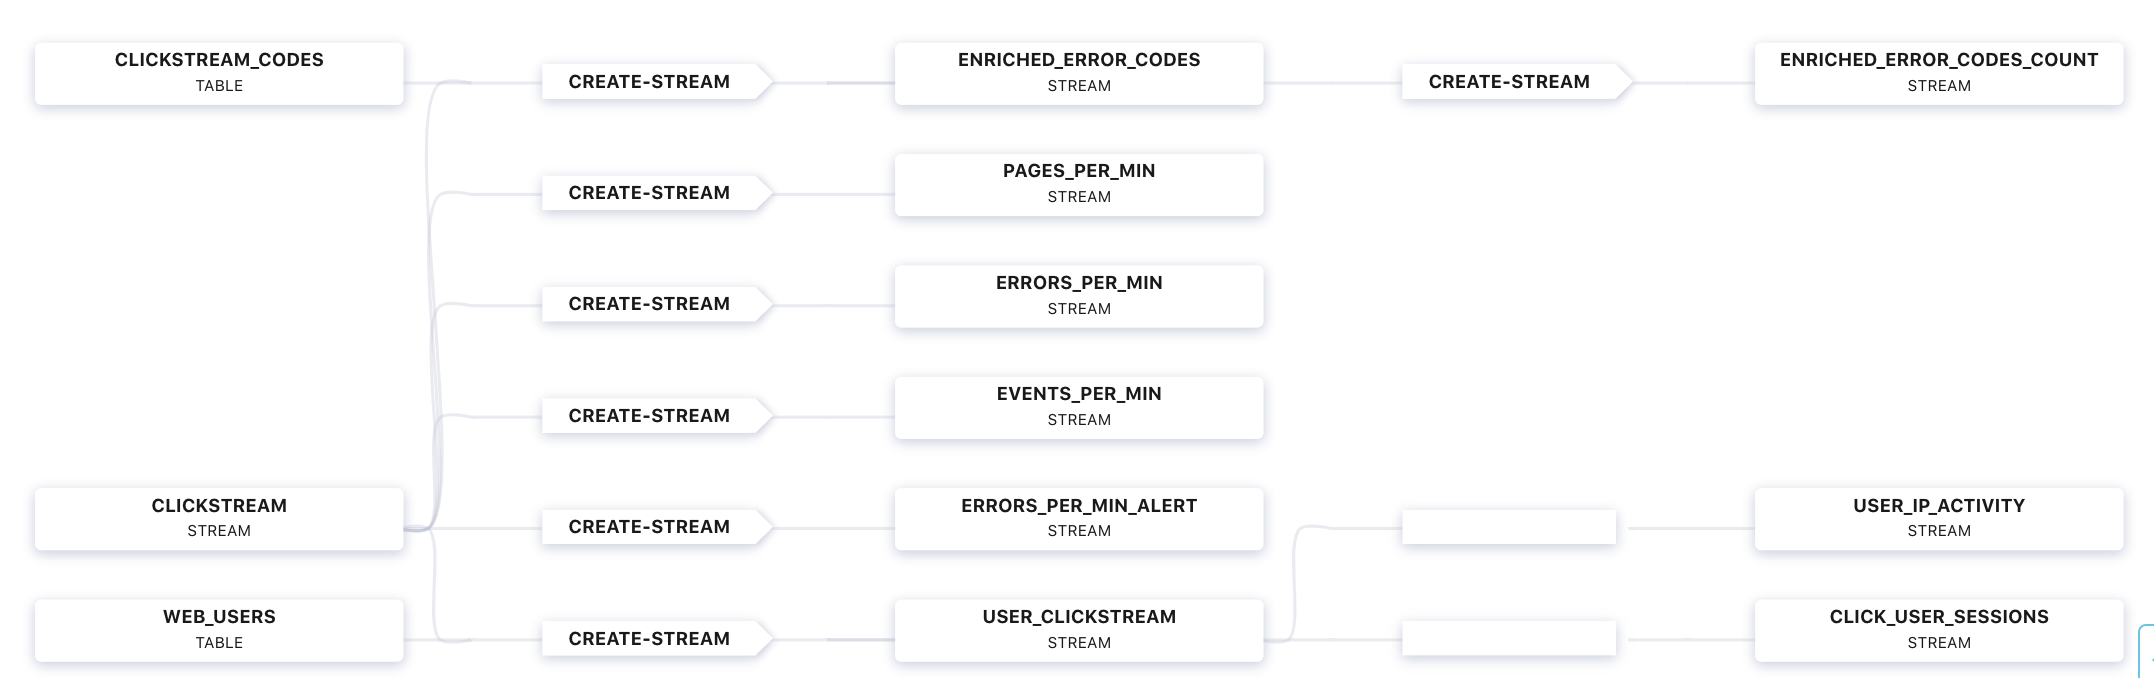
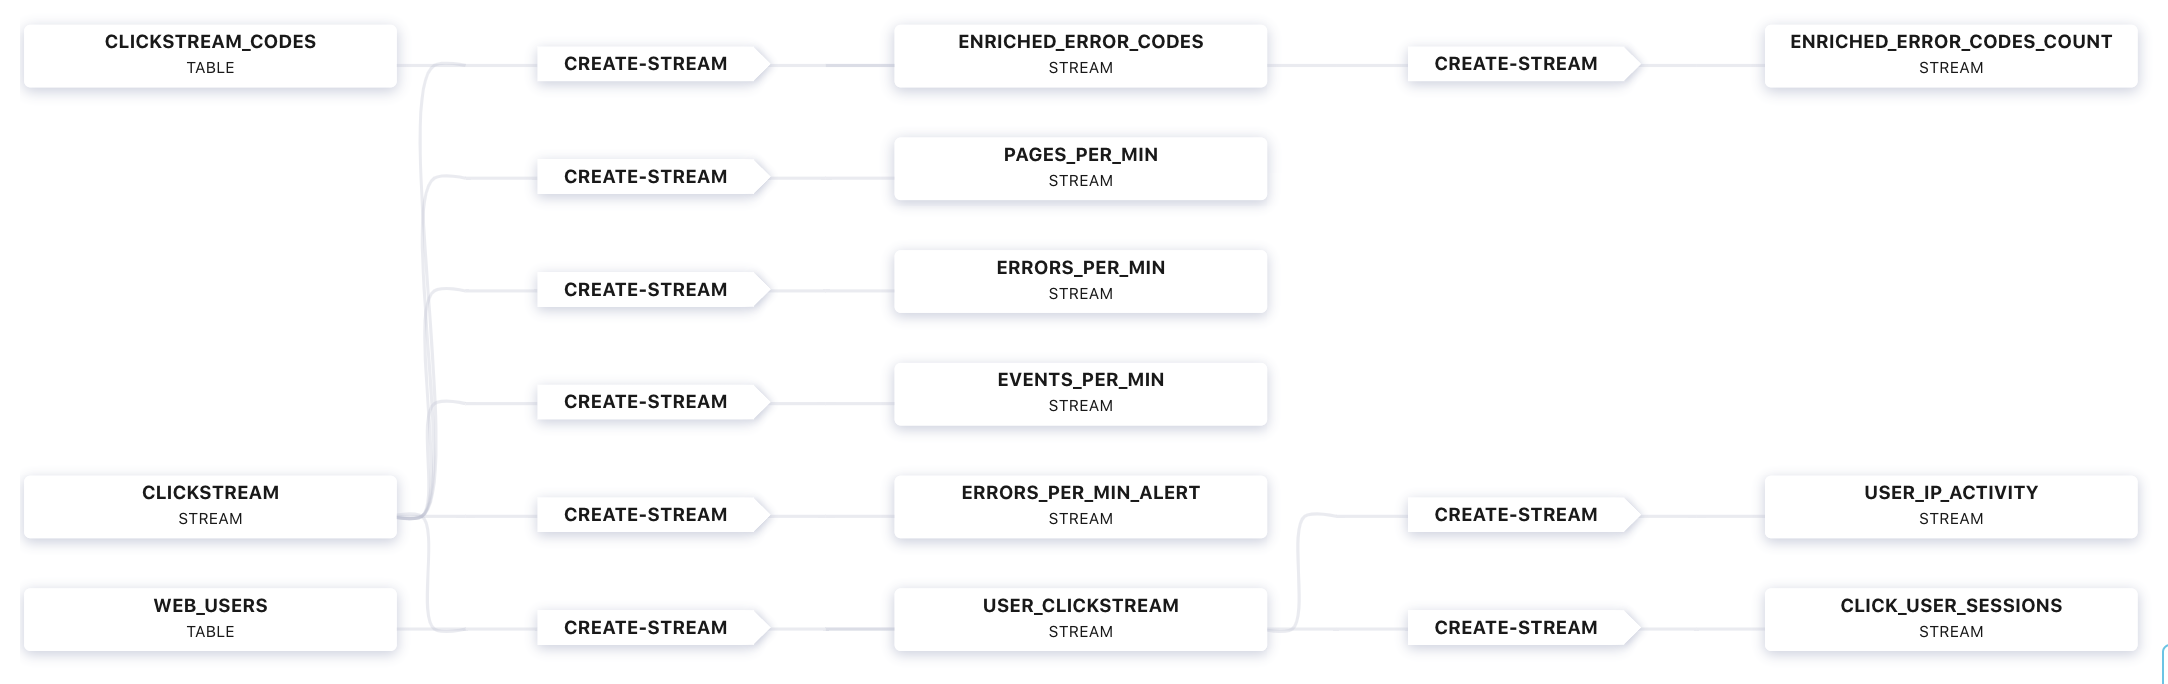
DEVX-1633: convert KSQL to ksqlDB for Clickstream (#485)

diff --git a/clickstream/docs/index.rst b/clickstream/docs/index.rst
@@ -53,19 +53,17 @@ are quite large and depending on your network connection may take
 
    ::
 
-           Name                    Command                  State                    Ports              
-      --------------------------------------------------------------------------------------------------
-      kafka-connect     /etc/confluent/docker/run        Up             0.0.0.0:8083->8083/tcp, 9092/tcp
-      control-center    /etc/confluent/docker/run        Up             0.0.0.0:9021->9021/tcp          
-      datagen           bash -c echo Waiting for K ...   Up                                             
-      elasticsearch     /usr/local/bin/docker-entr ...   Up             0.0.0.0:9200->9200/tcp, 9300/tcp
-      grafana           /run.sh                          Up             0.0.0.0:3000->3000/tcp          
-      kafka             /etc/confluent/docker/run        Up             9092/tcp                        
-      ksql-cli          /bin/sh                          Up                                             
-      ksql-server       /etc/confluent/docker/run        Up (healthy)   0.0.0.0:8088->8088/tcp          
-      schema-registry   /etc/confluent/docker/run        Up             8081/tcp                        
-      tools             /bin/bash                        Up                                             
-      zookeeper         /etc/confluent/docker/run        Up             2181/tcp, 2888/tcp, 3888/tcp  
+             Name                    Command               State                       Ports                     
+        ---------------------------------------------------------------------------------------------------------
+        control-center    /etc/confluent/docker/run        Up      0.0.0.0:9021->9021/tcp                        
+        elasticsearch     /usr/local/bin/docker-entr ...   Up      0.0.0.0:9200->9200/tcp, 9300/tcp              
+        grafana           /run.sh                          Up      0.0.0.0:3000->3000/tcp                        
+        kafka             /etc/confluent/docker/run        Up      9092/tcp                                      
+        ksql-cli          /bin/sh                          Up                                                    
+        ksqldb-server     bash -c # Manually install ...   Up      0.0.0.0:8083->8083/tcp, 0.0.0.0:8088->8088/tcp
+        schema-registry   /etc/confluent/docker/run        Up      8081/tcp                                      
+        tools             /bin/bash                        Up                                                    
+        zookeeper         /etc/confluent/docker/run        Up      2181/tcp, 2888/tcp, 3888/tcp    
 
 ---------------------------
 Browse the Clickstream Data
@@ -92,6 +90,7 @@ Browse the Clickstream Data
    .. code:: bash
 
        docker-compose exec tools confluent local consume clickstream_codes -- --bootstrap-server kafka:29092 --from-beginning --property print.key=true --property key.deserializer=org.apache.kafka.common.serialization.IntegerDeserializer --max-messages 3
+
 
     Your output should resemble:
 
@@ -166,6 +165,11 @@ Verify the data
        :alt: Clickstream data
 
 
+#.  In |c3|, view the running connectors. The three kafka-connect-datagen source connectors were created with the ksqlDB CLI, and the seven Elasticsearch sink connectors were created with the ksqlDB REST API.
+
+    .. image:: images/c3_connectors.png
+       :alt: Connectors
+
 
 .. _clickstream-view-grafana:
 
@@ -220,12 +224,8 @@ Send the KSQL tables to Elasticsearch and Grafana.
         {"id":1,"slug":"click-stream-analysis","status":"success","uid":"lUHTGDTmz","url":"/d/lUHTGDTmz/click-stream-analysis","version":4}
 
 
-        Navigate to:
-                http://localhost:3000/d/lUHTGDTmz/click-stream-analysis
-        (Default user: admin / password: admin)
-
 #.  Open your your browser using the URL output from the previous step's command.
-    You can login with user ID ``admin`` and password ``admin``.
+    You can login with user ID ``user`` and password ``user``.
 
     **Important:** If you already have Grafana UI open, you may need to
     enter the specific clickstream URL output by the previous step
